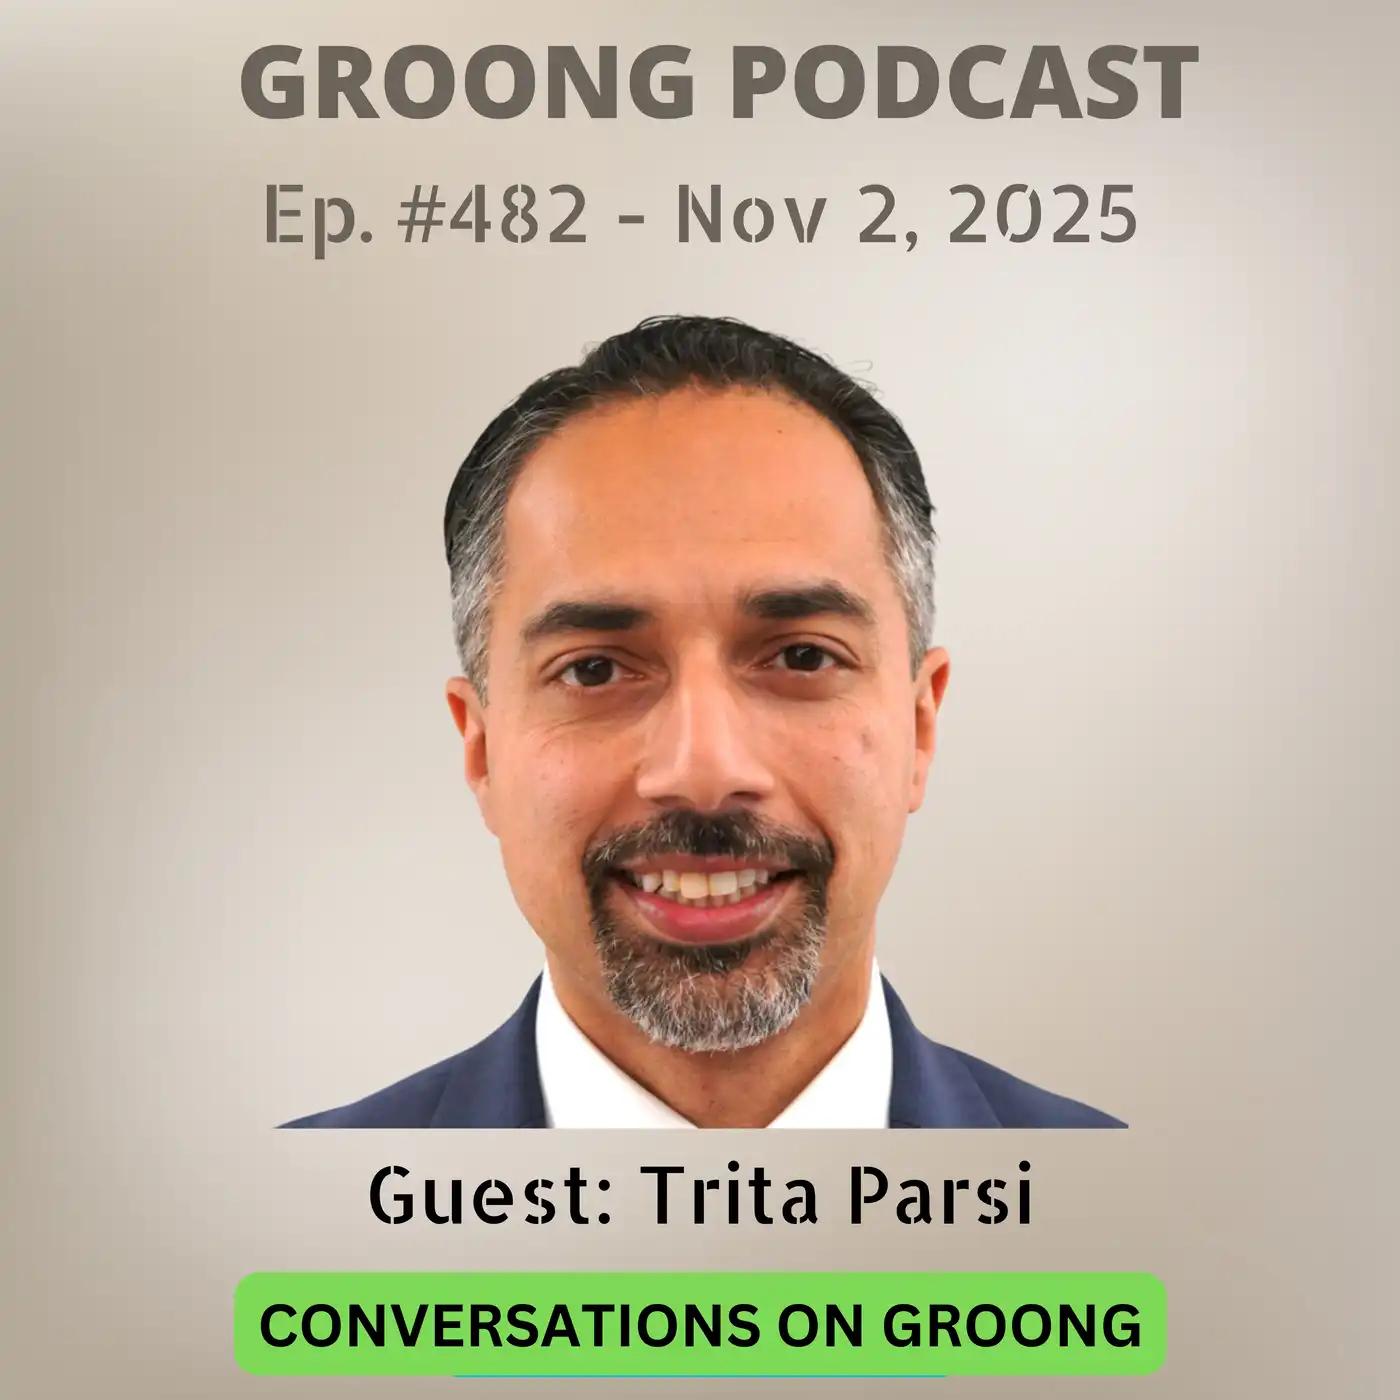
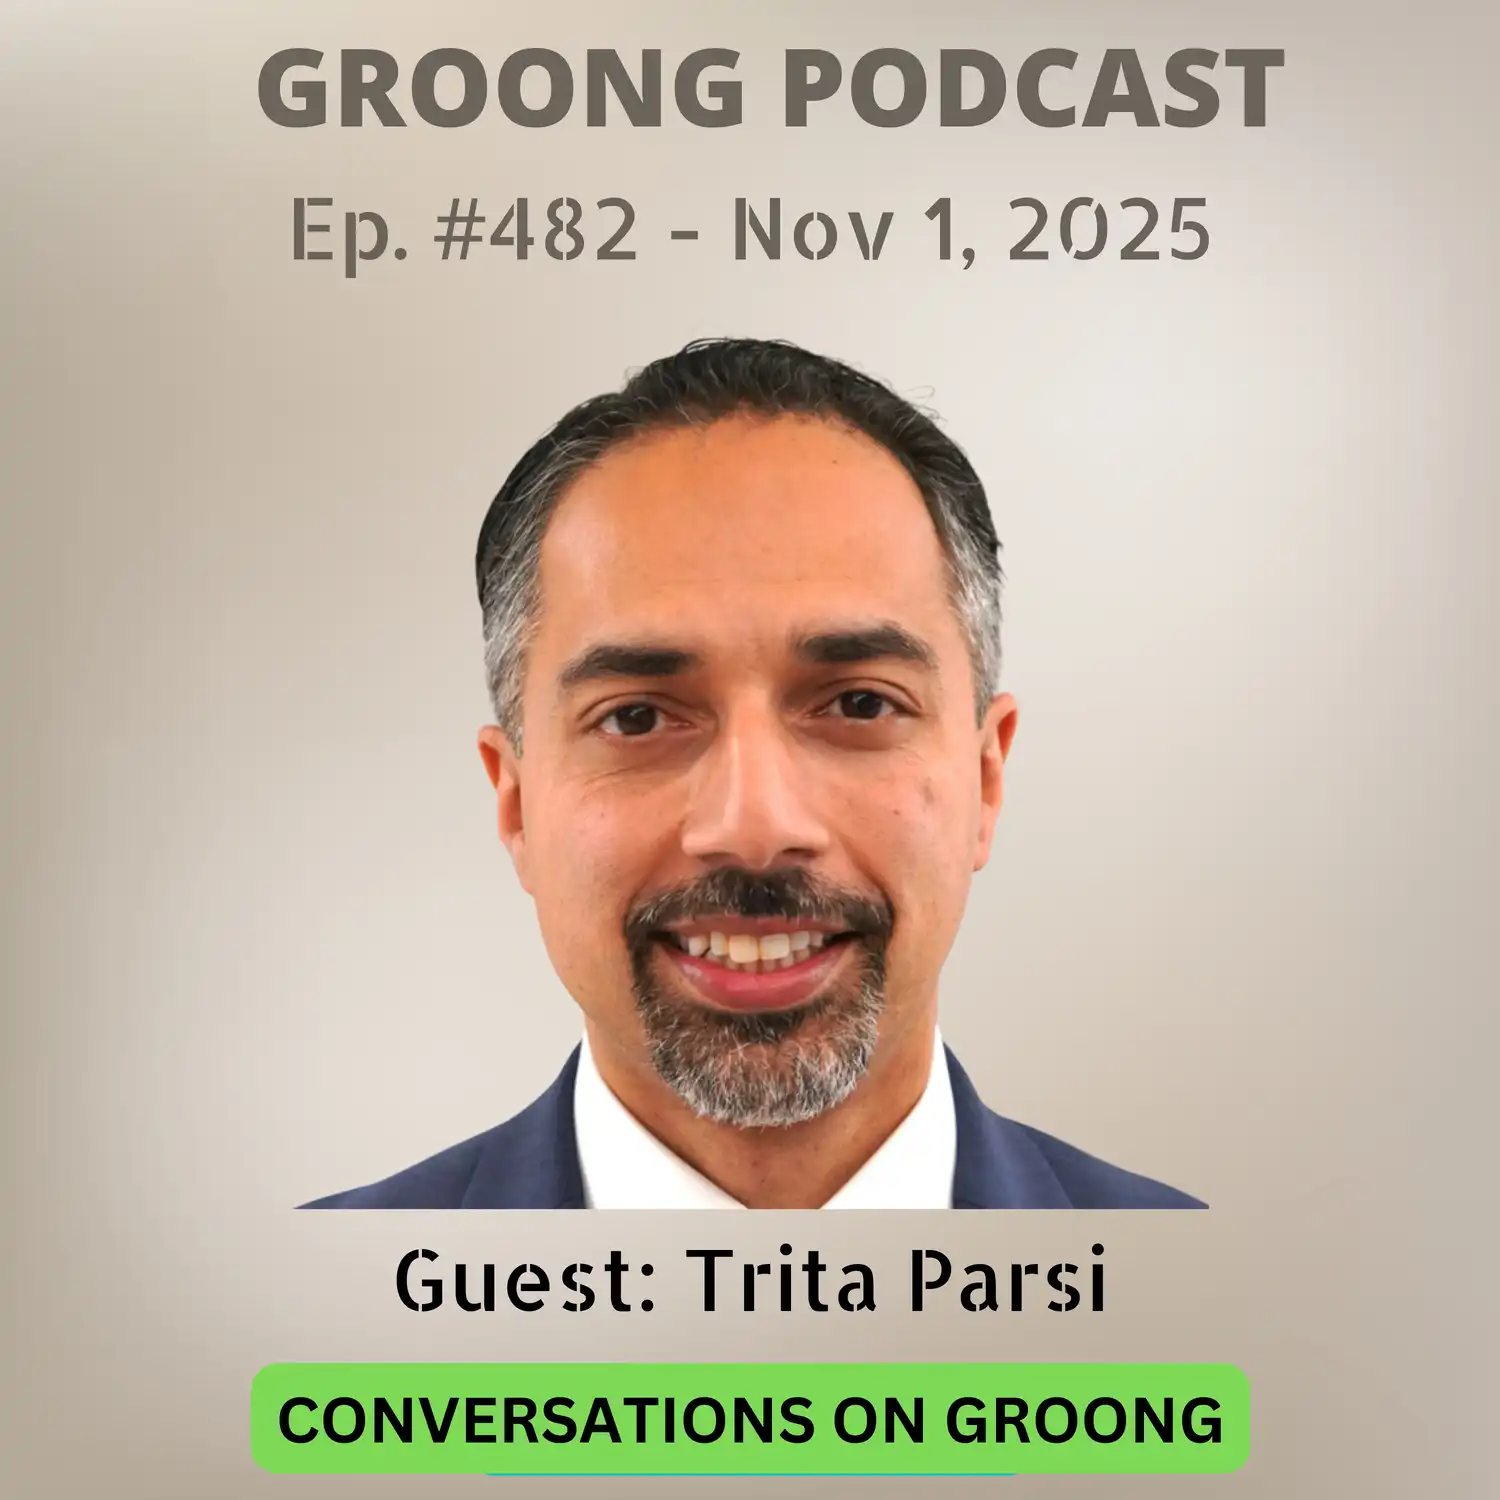
Updating ep 482

Changed region(s): [[0.4607, 0.1229, 0.8293, 0.1843], [0.1843, 0.1229, 0.43, 0.1843]]

diff --git a/content/episode/482-trita-parsi-prospect,grounds-consequences-of-a-second-israeli-war-on-iran.md b/content/episode/482-trita-parsi-prospect,grounds-consequences-of-a-second-israeli-war-on-iran.md
@@ -1,14 +1,14 @@
 +++
-Date = 2025-11-02T00:29:42-07:00
+Date = 2025-11-01T00:09:30-07:00
 upcoming = true
 
-title = "Trita Parsi - Prospect, Grounds and Consequences of a Second Israeli War on Iran  | Ep 482, Nov 2, 2025"
+title = "Trita Parsi - Prospect, Grounds and Consequences of a Second Israeli War on Iran  | Ep 482, Nov 1, 2025"
 subtitle = "Conversations on Groong - Recorded on: October 30, 2025"
 
-podcast_file = ""
-podcast_bytes = ""
-podcast_duration = ""
-youtube = ""
+podcast_file     = "18115080-trita-parsi-prospect-grounds-and-consequences-of-a-second-israel-iran-war-ep-482-nov-1-2025.mp3"
+podcast_duration = "1739"
+podcast_bytes    = "20913271"
+youtube = "hn0UM3BPYOc"
 
 episode_image = "img/episode/482/thumbnail-482.webp"
 episode_banner = "img/episode/482/banner-482.webp"
@@ -22,7 +22,7 @@ aliases = ["/482"]
 
 series = ["cog"]
 categories = ["Middle East", "Iran"]
-tags = ["Armenian News", "Trita Parsi", "Iran", "Israel", "Nuclear Program", "Nuclear Weapons", "Regime Change", "Quincy Institute", "Responsible Statecraft", "Palestine", "Gaza", "Gaza Genocide", "Greater Israel", "Syria", "Russia", "China", "USA", "EU", "Europe", "G7", "Iraq War", "Osirak", "Armenia", "TRIPP", "South Caucasus", "Azerbaijan", "Donald Trump", "Benjamin Netanyahu", "Iran Israel War", "Israel Iran Conflict", "Natanz", "Isfahan", "Fordow", "US-Iran", "Nuclear Talks", "NPT", "Non-Proliferation", "Abraham Accords", "Ayatollah Khamenei", "Xi Jinping", "Vladimir Putin", "Middle East Conflict", "MAGA", "Charlie Kirk", "Doha", "Qatar"]
+tags = ["Armenian News", "Trita Parsi", "Iran", "Israel", "Nuclear Program", "Nuclear Weapons", "Regime Change", "Quincy Institute", "Responsible Statecraft", "Palestine", "Gaza", "Gaza Genocide", "Greater Israel", "Syria", "USA", "EU", "Europe", "Iraq War", "Armenia", "TRIPP", "South Caucasus", "Azerbaijan", "Donald Trump", "Benjamin Netanyahu", "Iran Israel War", "Israel Iran Conflict", "Natanz", "Isfahan", "Fordow", "US-Iran", "Nuclear Talks", "NPT", "Non-Proliferation", "Abraham Accords", "Ayatollah Khamenei", "Middle East Conflict", "MAGA", "Charlie Kirk", "Doha", "Qatar"]
 
 Description = """
 
@@ -39,12 +39,26 @@ Description = """
 * US role, limited support or full engagement
 * Iran’s escalation ladder and Caucasus spillover scenarios
 
-
 Episode 482 | Recorded on October 30, 2025"""
 
 +++
 
+A deep dive with Dr. Trita Parsi on whether Israel will strike Iran again, why June’s war left “unfinished business,” how much Israel depends on the United States, what Iran’s rapid-response playbook looks like after June, and how a wider fight could spill into the South Caucasus and affect Armenia. Recorded Oct 30, 2025. 
 
+### Main Topics Addressed
+
+* Timing and intent for an Israel–Iran clash. 
+* Unfinished business from the June war. 
+* The US role, limited support or full entry. 
+* Iran’s escalation ladder and Caucasus spillover scenarios. 
+
+### Key Questions Discussed
+
+* Does the December timetable still hold, and what could cancel the war outright. 
+* What Israel would need to achieve in the first 48 hours to claim success. 
+* Can Washington avoid being dragged in, and what thresholds shift a limited role to full entry. 
+* How ready Iran is, what rungs exist on its escalation ladder, and what a Hormuz disruption would mean. 
+* How a war could spill into the South Caucasus, including Armenia’s exposure and US moves in the region. 
 
 
 # Wrap-up
